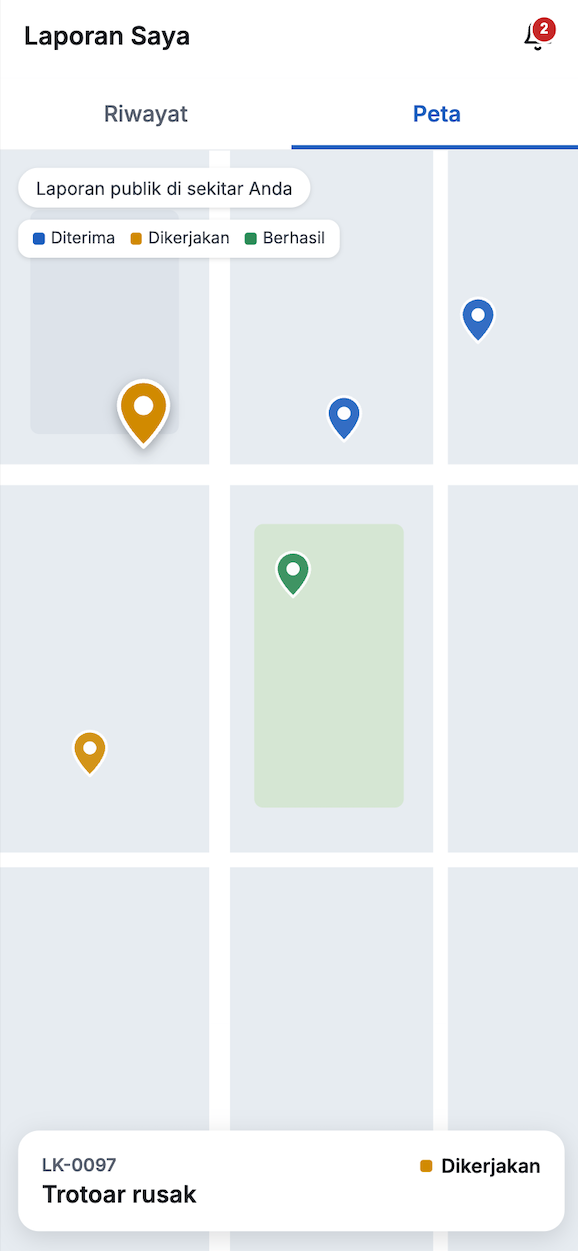
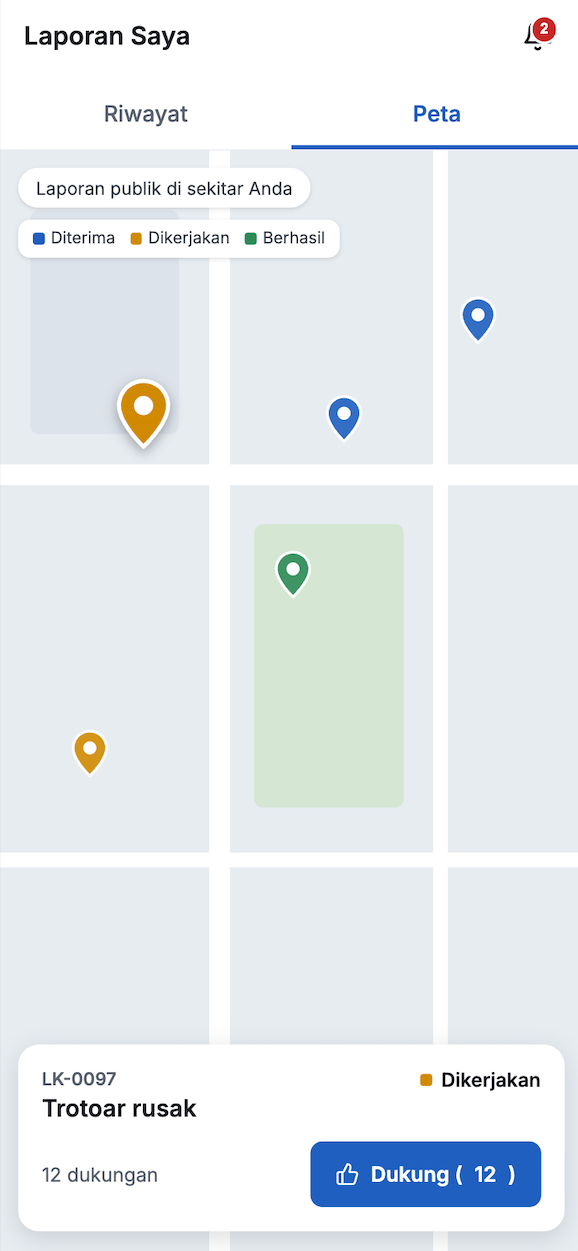
docs: added logbook, ai usage, and revisi I-02b

Changed region(s): [[0.0311, 0.8417, 0.9965, 0.9664]]

diff --git a/docs/K03_G07_AI-Usage.md b/docs/K03_G07_AI-Usage.md
@@ -51,6 +51,19 @@ Silakan catat penggunaan AI yang berdampak signifikan pada pengerjaan tugas (mis
 | *Gemini* | *Belajar syntax untuk UML Diagram* | *Berikan contoh syntax untuk membuat diagram UML dengan 2 aktor dan 2 use case* | *Menyesuaikan isi kode dengan aktor pribadi, use case pribadi, dan struktur yang menyesuaikan rancangan kelompok* |
 | | | | | |
 
+### Milestone 8
+| Tool AI | Tujuan Penggunaan | Contoh Prompt Utama | Modifikasi & Validasi Manusia |
+| :--- | :--- | :--- | :--- |
+| *Claude* | *Menentukan sumber isi setiap layar dan menyusun draf awal spesifikasi Bab 6* | *Untuk Bab 6 perancangan antarmuka, cara mengecek isi tiap page itu pakai apa? Ini Tabel 4.1 kelas perancangan kelompok kami* | *Memilih enam halaman client dari Tabel 2.3 sebagai daftar layar, mencocokkan objek setiap layar dengan atribut dan metode kelas boundary pada Tabel 4.1, menyederhanakan rancangan menjadi satu layar per halaman karena masih tahap mockup, serta menulis ulang tabel spesifikasi objek dengan format ID IXX-YY* |
+| *Claude Design* | *Membuat mockup I-01 Formulir Laporan Kerusakan beserta dialog laporan terkirim* | *Buat mockup mobile formulir laporan kerusakan: dropdown kategori, deskripsi, unggah foto dan video maks. 10 MB, tombol "Gunakan Lokasi Saat Ini", peta untuk pilih lokasi manual, pesan "Lokasi di luar daerah penanganan", tombol Batal dan Kirim Laporan* | *Mengubah teks petunjuk peta dan contoh isian sesuai kebutuhan kelompok, menyesuaikan label Foto agar sama dengan tabel spesifikasi, menambahkan dialog laporan terkirim sebagai pop-up terpisah (I-01b) setelah disetujui asisten, serta memastikan dua opsi lokasi (GPS dan manual) sesuai dengan sequence diagram UC01* |
+| *Claude Design* | *Membuat mockup I-02 Status Laporan untuk tab Riwayat dan tab Peta* | *Buat frame "I-02 Peta" dengan tab Peta aktif: peta sebaran laporan publik, penanda berwarna sesuai status tanpa identitas pelapor, kartu ringkas laporan terpilih dengan jumlah dukungan dan tombol "Dukung (12)"* | *Menambahkan frame tab Peta yang belum ada pada mockup awal, mempertahankan desain tab (bukan satu halaman scroll) agar sesuai dengan metode pilihMenuRiwayat() dan pilihMenuPeta(), memeriksa bahwa identitas pelapor tidak tampil sesuai batasan SKPL, serta menyelaraskan konsep upvote (manual dan otomatis dari laporan duplikat) dengan kelompok sebelum menetapkan isi tabel I-02* |
+| *Claude Design* | *Membuat mockup I-03 Validasi Laporan untuk Tim Administrasi* | *Buat mockup desktop validasi laporan: sidebar admin, filter kategori, tabel antrean laporan berstatus Diterima, panel rincian berisi foto, video, deskripsi, peta, tombol Validasi dan Tolak, serta isian alasan penolakan* | *Menghapus menu "Pengaturan" pada sidebar karena tidak memiliki halaman maupun use case, memeriksa kesesuaian tombol dengan metode onValidClicked(), onTolakClicked(), dan submitAlasanPenolakan(), serta mencatat kebutuhan pengurutan antrean pada SKPL yang belum memiliki metode untuk dibahas bersama kelompok* |
+| *Claude Design* | *Membuat mockup I-04 Evaluasi Hasil Kerja untuk Tim Administrasi* | *Buat mockup desktop evaluasi hasil kerja: daftar pekerjaan siap evaluasi, perbandingan foto sebelum dan sesudah, catatan eksekutor, catatan evaluasi, tombol Konfirmasi Selesai, Belum Selesai, dan Minta Ulang Bukti* | *Menghapus menu "Pengaturan" pada sidebar, mencocokkan ketiga tombol keputusan dengan metode EvaluasiPage pada Tabel 4.1, serta menuliskan perubahan status tiket untuk setiap tombol sesuai alur evaluasi pada SKPL* |
+| *Claude Design* | *Membuat mockup I-05 Daftar Tugas untuk Eksekutor Lapangan* | *Buat mockup mobile daftar tugas eksekutor: filter kategori, kartu tugas urut skor prioritas, panel rincian dengan foto, deskripsi, lokasi, tombol "Buka di Google Maps" dan "Laporkan Hasil"* | *Mengganti contoh alamat sesuai kebutuhan kelompok, menyeragamkan daftar kategori dengan layar lain, memperjelas bahwa daftar hanya memuat tugas yang hasil perbaikannya belum dikirim, serta menandai skala skor prioritas dan mekanisme penugasan eksekutor sebagai hal yang perlu disepakati kelompok* |
+| *Claude Design* | *Membuat mockup I-06 Formulir Hasil Perbaikan untuk Eksekutor Lapangan* | *Buat mockup mobile formulir hasil perbaikan: identitas tiket, catatan perbaikan, unggah foto bukti wajib, unggah video opsional, pesan "Gagal terkirim: foto dan deskripsi wajib diisi", tombol Kirim Hasil* | *Menyamakan teks pesan error dengan sequence diagram UC04 milik kelompok, memeriksa batasan format dan ukuran berkas sesuai SKPL, serta menuliskan alur setelah pengiriman (masuk ke daftar siap evaluasi I-04) pada tabel spesifikasi* |
+| *Claude* | *Meninjau konsistensi Bab 6 terhadap SKPL dan DPPL sebelum dikumpulkan* | *Cek tabel Bab 6 ini, cocokkan dengan Tabel 4.1 dan SKPL, mana yang perlu dikoreksi?* | *Memilih koreksi yang diterapkan dan menolak sebagian saran yang tidak sesuai keputusan kelompok, menelusuri sumber daftar kategori dan skor prioritas di SKPL, menyesuaikan penomoran gambar, serta membaca ulang seluruh tabel secara manual sebelum dikumpulkan* |
+
+
 ---
 ### Pernyataan Integritas dan Persetujuan
 

diff --git a/docs/M8/K03_G07_DPPL2.md b/docs/M8/K03_G07_DPPL2.md
@@ -1152,7 +1152,8 @@ Tabel 6.2. Spesifikasi Objek Antarmuka I-02
 | I02-10 | Map | Peta sebaran laporan publik, dengan label "Laporan publik di sekitar Anda" | Menampilkan seluruh laporan publik dalam batas kota. Tidak menampilkan nama atau identitas pelapor. |
 | I02-11 | Legend | Diterima (biru), Dikerjakan (kuning), Berhasil (hijau) | Keterangan arti warna penanda pada peta. |
 | I02-12 | Map Marker | Penanda berwarna sesuai status laporan | Klik penanda memilih laporan tersebut dan memperbesar penandanya. |
-
+| I02-13 | Card | ID tiket, kategori, badge status, dan jumlah dukungan (contoh: "LK-0097", "Trotoar rusak", "Dikerjakan", "12 dukungan") | Ringkasan laporan yang dipilih pada peta. Jumlah dukungan mencakup dukungan dari tombol I02-14 dan laporan duplikat (laporan sekategori dalam radius ≤ 20 m) yang otomatis dicatat sebagai dukungan. |
+| I02-14 | Button | "Dukung (12)" | Menambah satu dukungan dari warga untuk laporan terpilih (satu dukungan per akun); angka pada tombol dan I02-13 bertambah. |
 
 ## 6.3 Rancangan Antarmuka I-03
 

diff --git a/docs/K03_G07_Logbook.md b/docs/K03_G07_Logbook.md
@@ -164,6 +164,9 @@
 | :--- | :--- | :--- | :--- | :--- | :--- | 
 | 26-10-2026 | Pasaribu Fritz T.A.M. | Mengerjakan Rincian Class C07, C08, C13, C14, C19, C20  | 1 | Unfinished | Masih bingung untuk bagian tabel query |
 | 27-10-2026 | Pasaribu Fritz T.A.M. | Menyelesaikan Rincian Class C07, C08, C13, C14, C19, C20  | 1 | Done | - |  
+| 26-10-2026 | Rafi Pradipta Andira Sulistyo | Menyusun rancangnan Interface bab 6 | 3 | Done | - |  
+| 27-10-2026 | Rafi Pradipta Andira Sulistyo | Revisi I-01 | 1 | Done | - |  
+| 27-10-2026 | Rafi Pradipta Andira Sulistyo | Revisi I-02b | 0,5 | Done | - | 
 
 
 ---
